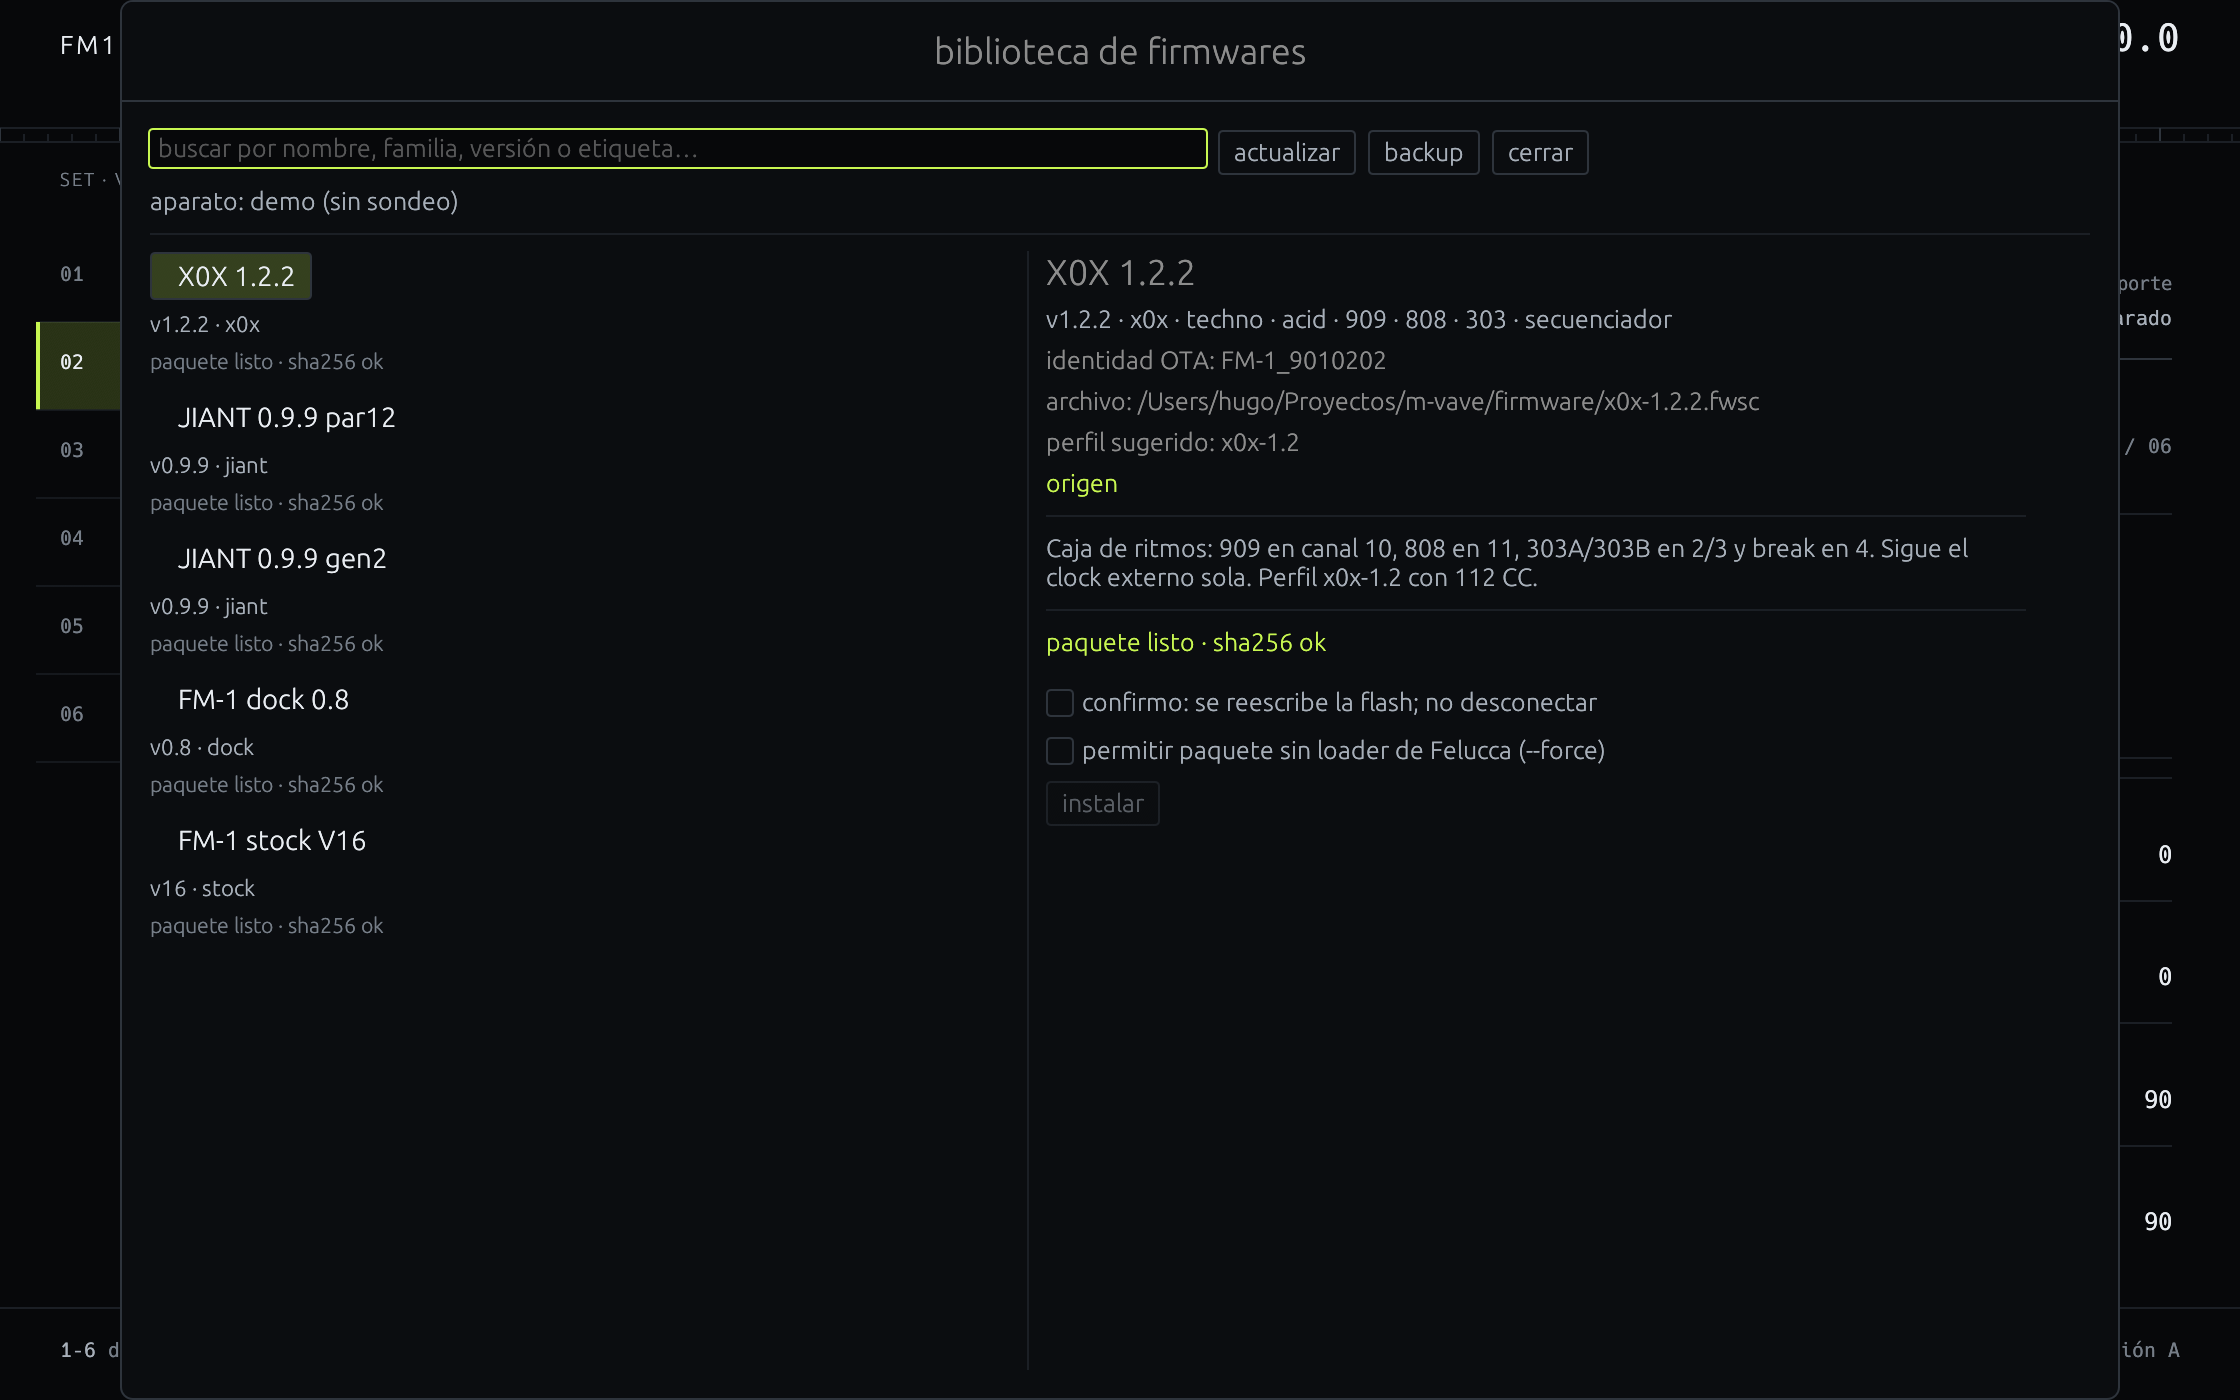
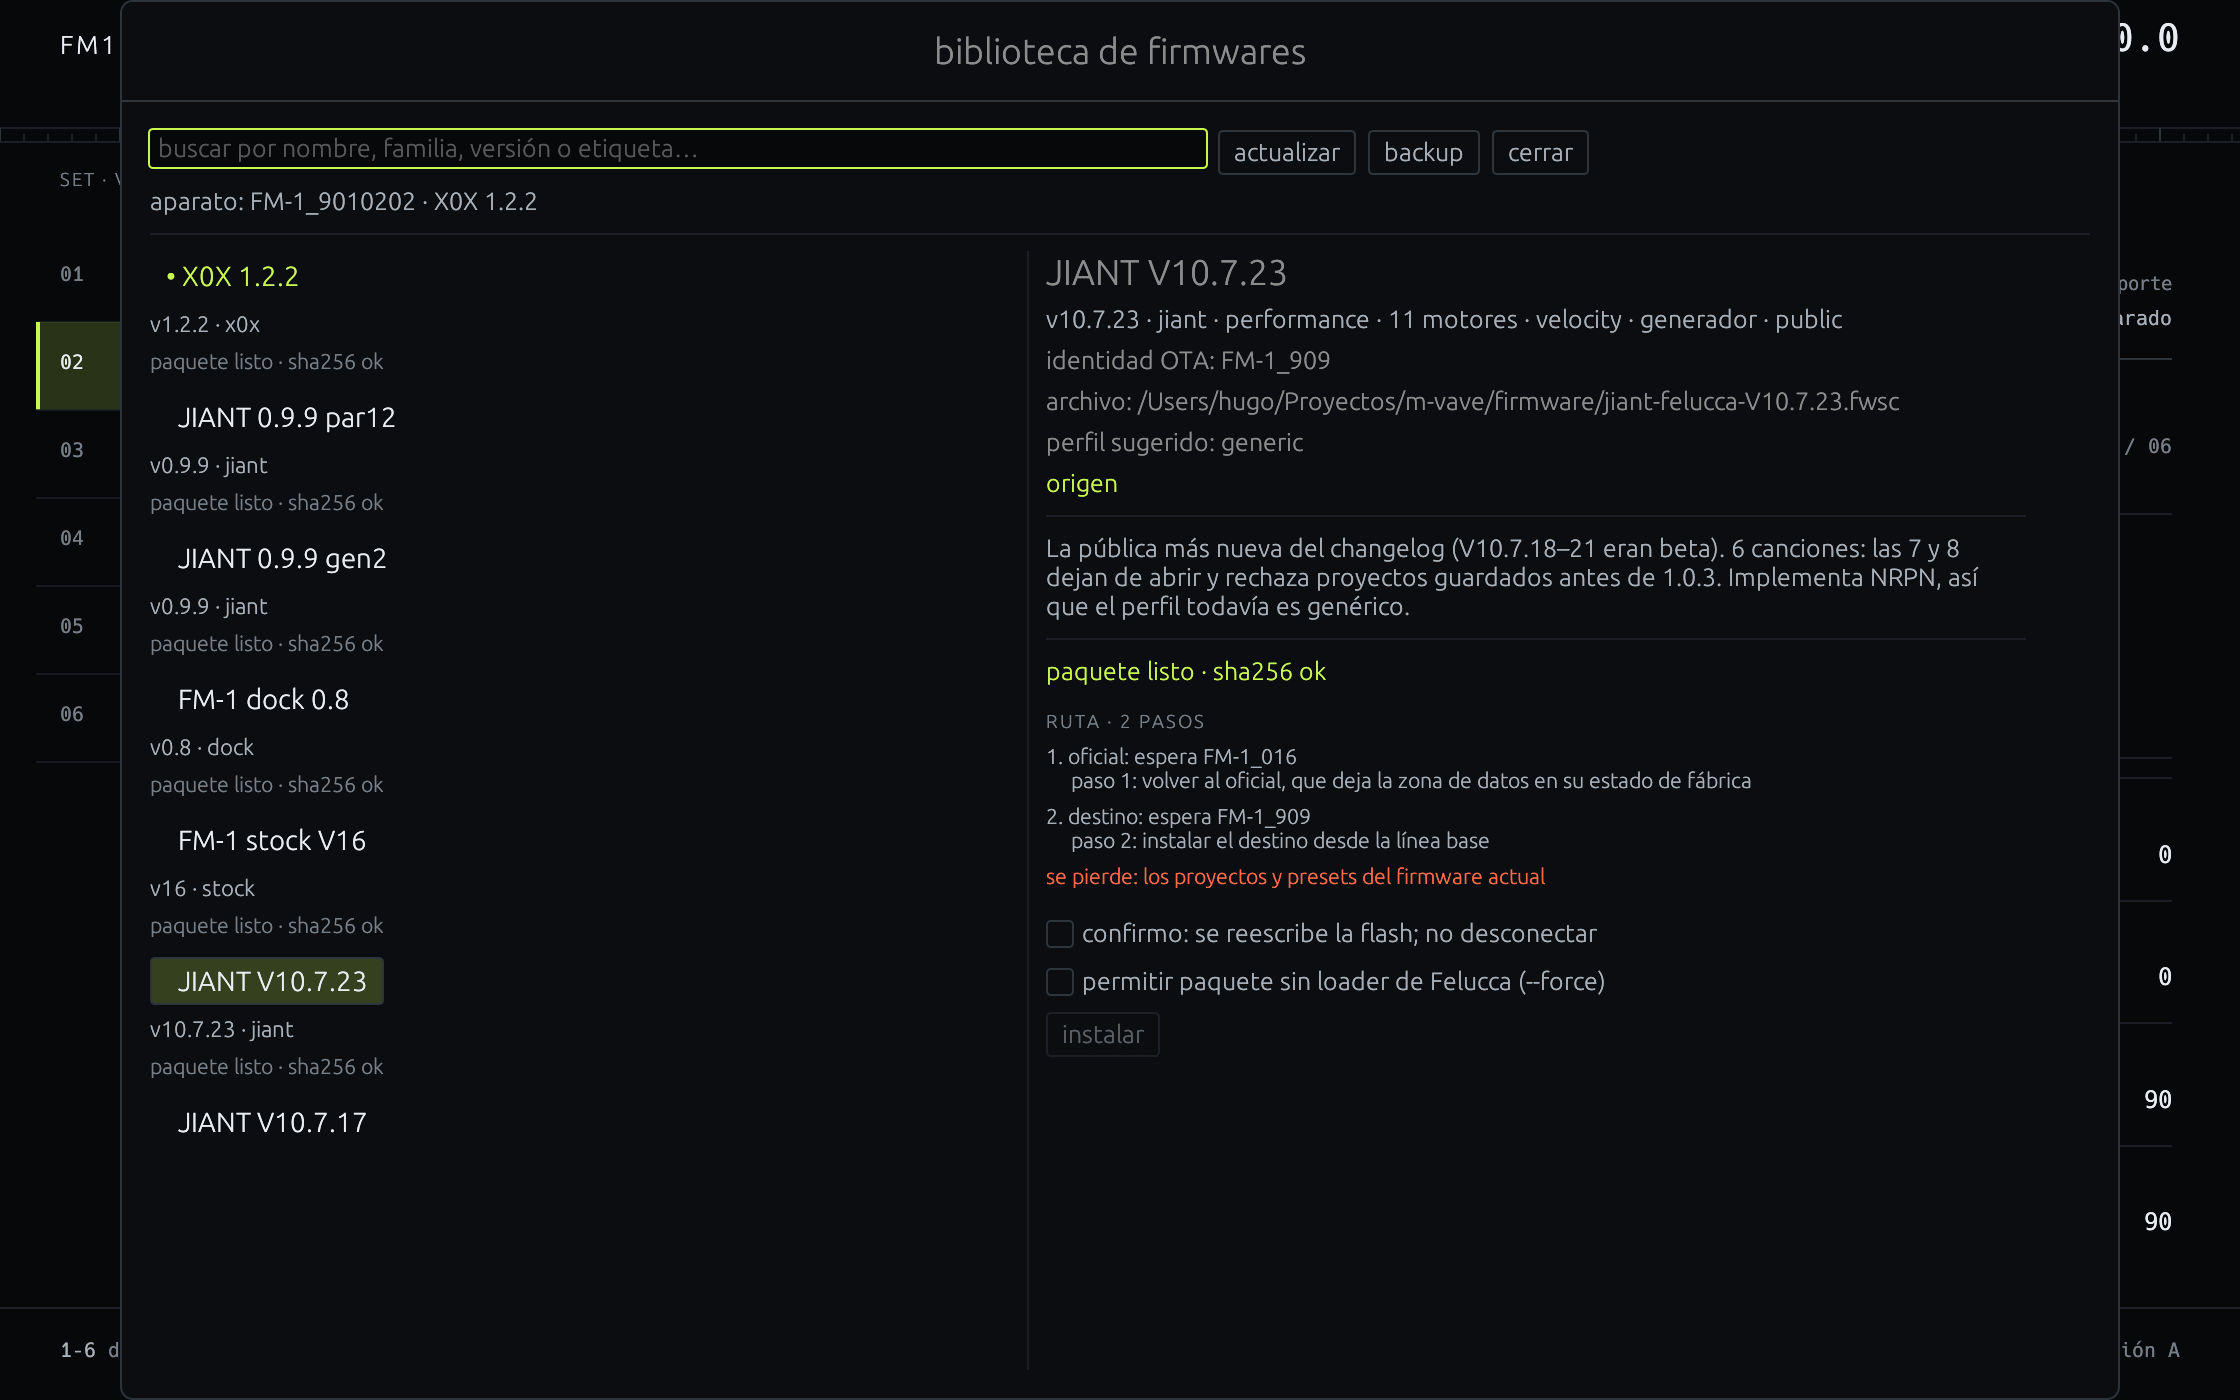
fm1-perf: la biblioteca muestra y aplica la ruta segura
- panel de detalle: ruta con pasos, identidad esperada y motivo; aviso de proyectos perdidos; botón
  deshabilitado si route::plan se niega
- install desde la UI recorre los pasos (oficial primero si cambia de familia) y verifica la identidad
  después de cada uno, con backup previo
- --demo preselecciona una entrada de otra familia para que la captura muestre la ruta de 2 pasos
- shots/firmware.png actualizado; HANDOFF con el comportamiento

diff --git a/crates/fm1-perf/src/library.rs b/crates/fm1-perf/src/library.rs
@@ -7,6 +7,7 @@
 use crate::theme;
 use eframe::egui;
 use eframe::egui::vec2;
+use fm1_core::route::{self, Family, PlanStep, Refusal, StepKind, Target};
 use fm1_store::{Catalog, FileState, FirmwareEntry, state_of};
 use std::collections::{BTreeMap, VecDeque};
 use std::sync::mpsc::{self, Receiver, Sender};
@@ -71,7 +72,24 @@ impl Library {
             rx,
         };
         library.rehash();
-        if !demo {
+        if demo {
+            // captura determinista: sin sondeo, pero con un aparato plausible y una entrada de otra
+            // familia seleccionada, para que la ruta de dos pasos quede dibujada
+            library.installed = Some("FM-1_9010202".to_string());
+            library.selected = library
+                .catalog
+                .entries
+                .iter()
+                .find(|entry| entry.id == "jiant-v10.7.23")
+                .or_else(|| {
+                    library
+                        .catalog
+                        .entries
+                        .iter()
+                        .find(|entry| Family::parse(&entry.family) != Family::X0x)
+                })
+                .map(|entry| entry.id.clone());
+        } else {
             library.probe();
         }
         library
@@ -198,48 +216,125 @@ impl Library {
                 }
             }
 
-            let path = entry.path();
-            let _ = tx.send(Msg::Line(format!("paquete: {}", path.display())));
-            let package = match fm1_flash::Package::load(&path, force) {
-                Ok(package) => package,
+            let installer = fm1_flash::Installer::new(None);
+            // La ruta se decide con lo que el aparato reporta ahora, no con el sondeo de hace un rato.
+            let current = match installer.probe() {
+                Ok((identity, port)) => {
+                    let _ = tx.send(Msg::Line(format!("aparato: {} ({port})", identity.text)));
+                    identity.text
+                }
                 Err(error) => {
                     let _ = tx.send(Msg::Flashed(Err(error.to_string())));
                     return;
                 }
             };
+            let catalog = Catalog::load();
+            let stock = catalog
+                .entries
+                .iter()
+                .find(|other| Family::parse(&other.family) == Family::Stock)
+                .cloned();
+            let target = Target::new(
+                entry.id.clone(),
+                entry.identity.clone(),
+                Family::parse(&entry.family),
+            );
+            let steps = match route::plan(
+                &current,
+                &target,
+                stock.as_ref().map(|other| other.identity.as_str()),
+            ) {
+                Ok(steps) => steps,
+                Err(refusal) => {
+                    let _ = tx.send(Msg::Flashed(Err(refusal.to_string())));
+                    return;
+                }
+            };
             let _ = tx.send(Msg::Line(format!(
-                "identidad del paquete: {} · {} bytes",
-                package.product,
-                package.image.len()
+                "ruta: {} paso(s) desde {current}",
+                steps.len()
             )));
 
-            let installer = fm1_flash::Installer::new(None);
-            let sender = tx.clone();
-            let flashed = installer.install(&package, &mut |event| match event {
-                fm1_flash::Event::Start(text) => {
-                    let _ = sender.send(Msg::Line(format!("handshake con {text}")));
+            for (index, step) in steps.iter().enumerate() {
+                let (path, step_force, what) = match step.kind {
+                    StepKind::Stock => match &stock {
+                        Some(other) => (other.path(), true, "oficial"),
+                        None => {
+                            let _ = tx.send(Msg::Flashed(Err(Refusal::NoStock.to_string())));
+                            return;
+                        }
+                    },
+                    StepKind::Target => (entry.path(), force, "destino"),
+                };
+                let _ = tx.send(Msg::Line(format!(
+                    "[{}/{}] {what}: {}",
+                    index + 1,
+                    steps.len(),
+                    path.display()
+                )));
+                let package = match fm1_flash::Package::load(&path, step_force) {
+                    Ok(package) => package,
+                    Err(error) => {
+                        let _ = tx.send(Msg::Flashed(Err(error.to_string())));
+                        return;
+                    }
+                };
+                let _ = tx.send(Msg::Line(format!(
+                    "identidad del paquete: {} · {} bytes",
+                    package.product,
+                    package.image.len()
+                )));
+                let sender = tx.clone();
+                let written = installer.install(&package, &mut |event| match event {
+                    fm1_flash::Event::Start(text) => {
+                        let _ = sender.send(Msg::Line(format!("handshake con {text}")));
+                    }
+                    fm1_flash::Event::Loader => {
+                        let _ = sender.send(Msg::Line("loader: modo update".into()));
+                    }
+                    fm1_flash::Event::Progress { end, total, .. } => {
+                        let _ = sender.send(Msg::Progress { end, total });
+                    }
+                    fm1_flash::Event::WriteDone => {
+                        let _ = sender.send(Msg::Line("escritura completa".into()));
+                    }
+                    fm1_flash::Event::Reboot => {
+                        let _ = sender.send(Msg::Line("reiniciando…".into()));
+                    }
+                    fm1_flash::Event::Done(text) => {
+                        let _ = sender.send(Msg::Line(format!("verificado: {text}")));
+                    }
+                });
+                match written {
+                    Ok(identity) if identity.text == step.expect => {
+                        let _ = tx.send(Msg::Line(format!(
+                            "paso {} ok: {}",
+                            index + 1,
+                            identity.text
+                        )));
+                    }
+                    Ok(identity) => {
+                        let _ = tx.send(Msg::Flashed(Err(format!(
+                            "después del paso {} el aparato dice {}, se esperaba {}",
+                            index + 1,
+                            identity.text,
+                            step.expect
+                        ))));
+                        return;
+                    }
+                    Err(error) => {
+                        let _ = tx.send(Msg::Flashed(Err(error.to_string())));
+                        return;
+                    }
                 }
-                fm1_flash::Event::Loader => {
-                    let _ = sender.send(Msg::Line("loader: modo update".into()));
-                }
-                fm1_flash::Event::Progress { end, total, .. } => {
-                    let _ = sender.send(Msg::Progress { end, total });
-                }
-                fm1_flash::Event::WriteDone => {
-                    let _ = sender.send(Msg::Line("escritura completa".into()));
-                }
-                fm1_flash::Event::Reboot => {
-                    let _ = sender.send(Msg::Line("reiniciando…".into()));
-                }
-                fm1_flash::Event::Done(text) => {
-                    let _ = sender.send(Msg::Line(format!("verificado: {text}")));
-                }
-            });
-            let _ = tx.send(Msg::Flashed(
-                flashed
-                    .map(|identity| identity.text)
-                    .map_err(|error| error.to_string()),
-            ));
+            }
+            if steps.len() > 1 {
+                let _ = tx.send(Msg::Line(
+                    "nota: los proyectos del firmware anterior se perdieron al pasar por el oficial"
+                        .into(),
+                ));
+            }
+            let _ = tx.send(Msg::Flashed(Ok(entry.identity.clone())));
         });
     }
 
@@ -301,6 +396,29 @@ impl Library {
             }
         }
         status
+    }
+
+    /// La ruta segura para esta entrada, o el motivo por el que no se escribe. `None` sin sondeo.
+    fn planned(
+        &self,
+        entry: &FirmwareEntry,
+    ) -> Option<std::result::Result<Vec<PlanStep>, Refusal>> {
+        let current = self.installed.as_deref()?;
+        let target = Target::new(
+            entry.id.clone(),
+            entry.identity.clone(),
+            Family::parse(&entry.family),
+        );
+        let stock = self
+            .catalog
+            .entries
+            .iter()
+            .find(|other| Family::parse(&other.family) == Family::Stock);
+        Some(route::plan(
+            current,
+            &target,
+            stock.map(|other| other.identity.as_str()),
+        ))
     }
 
     /// El nombre del firmware instalado, si el catálogo lo reconoce por identidad.
@@ -561,6 +679,60 @@ impl Library {
                                         );
                                     }
 
+                                    // La ruta va antes que el botón: si no se puede, no hay botón.
+                                    let planned = self.planned(&entry);
+                                    if let Some(plan) = &planned {
+                                        ui.add_space(6.0);
+                                        match plan {
+                                            Ok(steps) => {
+                                                ui.label(
+                                                    egui::RichText::new(theme::tracked(&format!(
+                                                        "ruta · {} paso{}",
+                                                        steps.len(),
+                                                        if steps.len() == 1 { "" } else { "s" }
+                                                    )))
+                                                    .size(9.5)
+                                                    .color(theme::DIMMER),
+                                                );
+                                                for (index, step) in steps.iter().enumerate() {
+                                                    let what = match step.kind {
+                                                        StepKind::Stock => "oficial",
+                                                        StepKind::Target => "destino",
+                                                    };
+                                                    ui.label(
+                                                        egui::RichText::new(format!(
+                                                            "{}. {what}: espera {}\n     {}",
+                                                            index + 1,
+                                                            step.expect,
+                                                            step.reason
+                                                        ))
+                                                        .size(10.5)
+                                                        .color(theme::DIM),
+                                                    );
+                                                }
+                                                if steps.len() > 1 {
+                                                    ui.label(
+                                                        egui::RichText::new(
+                                                            "se pierde: los proyectos y presets del firmware actual",
+                                                        )
+                                                        .size(10.5)
+                                                        .color(theme::HOT),
+                                                    );
+                                                }
+                                            }
+                                            Err(refusal) => {
+                                                ui.label(
+                                                    egui::RichText::new(format!(
+                                                        "no se puede: {refusal}"
+                                                    ))
+                                                    .size(10.5)
+                                                    .color(theme::HOT),
+                                                );
+                                            }
+                                        }
+                                    }
+                                    let blocked = matches!(planned, Some(Err(_)));
+
                                     ui.add_space(8.0);
                                     ui.add_enabled_ui(ready && self.busy.is_none(), |ui| {
                                         ui.checkbox(
@@ -573,7 +745,7 @@ impl Library {
                                         );
                                         if ui
                                             .add_enabled(
-                                                self.confirm,
+                                                self.confirm && !blocked,
                                                 egui::Button::new(if installed {
                                                     "reinstalar"
                                                 } else {

diff --git a/docs/HANDOFF.md b/docs/HANDOFF.md
@@ -274,6 +274,10 @@ se pierde: los proyectos y presets del firmware actual
 - `route` corre sin escribir y acepta `--from IDENT` para ensayar sin aparato.
 - Se verificó contra el aparato real: `route stock-v16` da 1 paso, `route x0x-1.2.2` se niega («ya reporta
   FM-1_9010202»), `route jiant-v10.7.23` y `route sloop-2.8.5` dan 2 pasos.
+- La **biblioteca de la UI** (`fm1-perf`, tecla `f`) muestra la misma ruta antes del botón: pasos, identidad
+  esperada y el aviso de qué se pierde; si la ruta se niega, el botón queda deshabilitado. Instalar desde ahí
+  corre exactamente los mismos pasos y verifica la identidad después de cada uno. En `--demo` la captura
+  preselecciona una entrada de otra familia para que la ruta de dos pasos se vea.
 - La identidad corta de X0X (`FM-1_901`) tiene su propio caso de test: sin eso, un aparato en X0X parece un
   firmware desconocido y la ruta sale por el oficial cuando no hacía falta.
 
